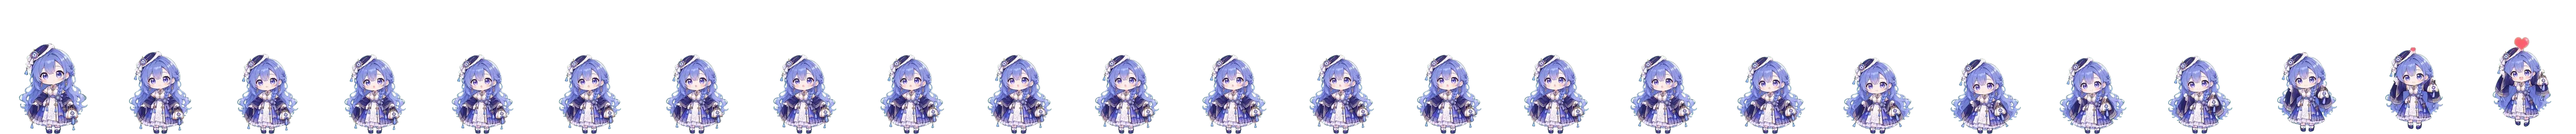
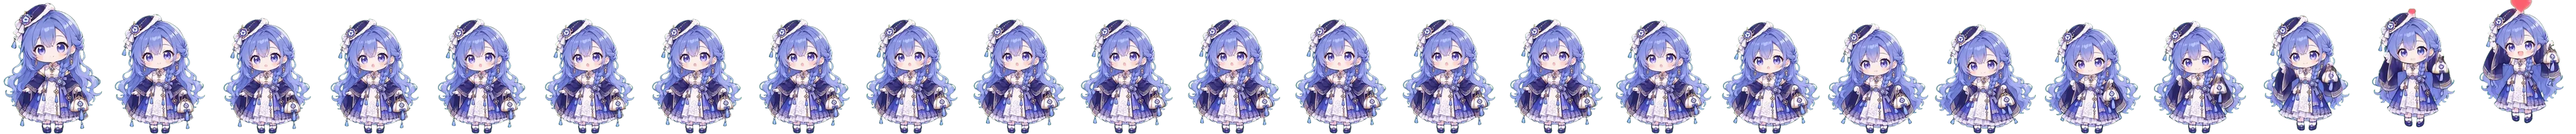
fix(mascot): 放大 Qwen 的完成动作，一次性动作正放再倒放
- 素材脚本按动作读缩放系数，happy 放大到与 idle 同高，超出的顶部裁掉
- 一次性动作也走正放+倒放，播完回到起始姿势
- 取消点击回应的 50ms 提速，统一按 83ms

diff --git a/packages/client/src/features/mascot/mascot-player.ts b/packages/client/src/features/mascot/mascot-player.ts
@@ -129,11 +129,13 @@ export function createMascotPlayer(ctx: HostContext, ui: FeatureUi<typeof manife
   /** What the stage's decisions read off the page: an idle extra starts only in motion, on a visible page. */
   const surroundings = () => ({ extras: character.extras, extrasAllowed: !motionReduced() && !document.hidden, random: Math.random })
 
-  /** How long one round of an animation lasts: its own per-frame durations, or its frame count at the sheet's pace. */
+  /** How long one round of an animation lasts: its own per-frame durations, or the frames it plays at the sheet's pace. */
   const playMs = (key: string) => {
     const sheet = SHEETS[key]
     const frameMs = sheet.frameMs ?? FRAME_MS
-    return sheet.durs === undefined ? sheet.frames * frameMs : sheet.durs.reduce((sum, ms) => sum + ms, 0)
+    if (sheet.durs !== undefined) return sheet.durs.reduce((sum, ms) => sum + ms, 0)
+    const sequence = sequenceOf(sheet)
+    return (sequence === null ? sheet.frames : sequence.length) * frameMs
   }
 
   /** The character's sheet pipeline. */
@@ -293,14 +295,17 @@ export function createMascotPlayer(ctx: HostContext, ui: FeatureUi<typeof manife
     strip.style.transform = ''
     const keyframes: Keyframe[] = []
     let duration: number
-    const sequence = sequenceOf(sheet, mode)
+    const sequence = sequenceOf(sheet)
     const frameMs = sheet.frameMs ?? FRAME_MS
     if (sequence !== null) {
       duration = sequence.length * frameMs
       for (let at = 0; at < sequence.length; at++) {
         keyframes.push({ offset: at / sequence.length, transform: frameOffset(sheet, sequence[at]), easing: 'steps(1)' })
       }
-      keyframes.push({ offset: 1, transform: frameOffset(sheet, mode === 'loop' ? 0 : sheet.frames - 1) })
+      // A ping-pong round and a loop close on the first frame; a one-way
+      // animation closes on its last, which it then holds.
+      const closing = sequence.length > sheet.frames || mode === 'loop' ? 0 : sheet.frames - 1
+      keyframes.push({ offset: 1, transform: frameOffset(sheet, closing) })
     } else if (sheet.durs !== undefined) {
       const durs = sheet.durs
       duration = durs.reduce((sum, ms) => sum + ms, 0)
@@ -404,15 +409,16 @@ export function createMascotPlayer(ctx: HostContext, ui: FeatureUi<typeof manife
   }
 
   /**
-   * The frame order one round of an animation plays: a ping-pong loop walks
-   * forward and then back through the same frames, so its seam repeats a pose
-   * instead of jumping; a sheet with per-frame durations has no such order.
+   * The frame order one round of an animation plays: a ping-pong character
+   * walks forward and then back through the same frames, so its seam repeats a
+   * pose instead of jumping, and a one-off answer returns to the pose it left.
+   * A sheet with per-frame durations has no such order.
    */
-  function sequenceOf(sheet: MascotSheet, mode: PlayMode): number[] | null {
+  function sequenceOf(sheet: MascotSheet): number[] | null {
     if (sheet.durs !== undefined) return null
     const sequence: number[] = []
     for (let frame = 0; frame < sheet.frames; frame++) sequence.push(frame)
-    if (character.pingpongLoops === true && mode === 'loop' && sheet.frames > 2) {
+    if (character.pingpongLoops === true && sheet.frames > 2) {
       for (let frame = sheet.frames - 2; frame > 0; frame--) sequence.push(frame)
     }
     return sequence
@@ -426,7 +432,7 @@ export function createMascotPlayer(ctx: HostContext, ui: FeatureUi<typeof manife
     const current = stage.current
     if (current === null) return null
     const sheet = SHEETS[current.key]
-    const sequence = sequenceOf(sheet, current.mode)
+    const sequence = sequenceOf(sheet)
     if (sequence === null) return null
     if (still() && stage.animation === null) return { key: current.key, frame: sheet.still }
     const time = stage.animation !== null && typeof stage.animation.currentTime === 'number' ? stage.animation.currentTime : 0

diff --git a/packages/client/src/features/mascot/sheets.ts b/packages/client/src/features/mascot/sheets.ts
@@ -149,7 +149,7 @@ export const WHALE_GIRL_SHEETS: Record<string, { frames: number, box: number[], 
  * `tickle` shares the happy one, so the frames and still match the source.
  */
 export const GEMINI_FRAME_MS = 83
-export const GEMINI_SHEETS: Record<string, { frames: number, box: number[], still: number, columns: number, frameMs?: number }> = {
+export const GEMINI_SHEETS: Record<string, { frames: number, box: number[], still: number, columns: number }> = {
   'idle': { frames: 48, box: [0, 0, 48, 60], still: 0, columns: 48 },
   'idle-look': { frames: 24, box: [0, 0, 48, 60], still: 0, columns: 24 },
   'idle-spout': { frames: 24, box: [0, 0, 48, 60], still: 0, columns: 24 },
@@ -164,9 +164,9 @@ export const GEMINI_SHEETS: Record<string, { frames: number, box: number[], stil
   'compacting': { frames: 24, box: [0, 0, 48, 60], still: 0, columns: 24 },
   'sleeping': { frames: 48, box: [0, 0, 48, 60], still: 0, columns: 48 },
   'waking': { frames: 24, box: [0, 0, 48, 60], still: 0, columns: 24 },
-  'poke-left': { frames: 20, box: [0, 0, 48, 60], still: 0, columns: 20, frameMs: 50 },
-  'poke-right': { frames: 20, box: [0, 0, 48, 60], still: 0, columns: 20, frameMs: 50 },
-  'tickle': { frames: 24, box: [0, 0, 48, 60], still: 0, columns: 24, frameMs: 50 },
+  'poke-left': { frames: 20, box: [0, 0, 48, 60], still: 0, columns: 20 },
+  'poke-right': { frames: 20, box: [0, 0, 48, 60], still: 0, columns: 20 },
+  'tickle': { frames: 24, box: [0, 0, 48, 60], still: 0, columns: 24 },
   'drag': { frames: 24, box: [0, 0, 48, 60], still: 0, columns: 24 },
   'landing': { frames: 6, box: [0, 0, 48, 60], still: 5, columns: 48 },
 }
@@ -178,7 +178,7 @@ export const GEMINI_SHEETS: Record<string, { frames: number, box: number[], stil
  * action, and `poke-left`/`poke-right` share the shy one.
  */
 export const QWEN_FRAME_MS = 83
-export const QWEN_SHEETS: Record<string, { frames: number, box: number[], still: number, columns: number, frameMs?: number }> = {
+export const QWEN_SHEETS: Record<string, { frames: number, box: number[], still: number, columns: number }> = {
   'idle': { frames: 48, box: [0, 0, 48, 60], still: 0, columns: 48 },
   'idle-look': { frames: 24, box: [0, 0, 48, 60], still: 0, columns: 24 },
   'idle-spout': { frames: 24, box: [0, 0, 48, 60], still: 0, columns: 24 },
@@ -193,9 +193,9 @@ export const QWEN_SHEETS: Record<string, { frames: number, box: number[], still:
   'compacting': { frames: 24, box: [0, 0, 48, 60], still: 0, columns: 24 },
   'sleeping': { frames: 48, box: [0, 0, 48, 60], still: 0, columns: 48 },
   'waking': { frames: 24, box: [0, 0, 48, 60], still: 0, columns: 24 },
-  'poke-left': { frames: 20, box: [0, 0, 48, 60], still: 0, columns: 20, frameMs: 50 },
-  'poke-right': { frames: 20, box: [0, 0, 48, 60], still: 0, columns: 20, frameMs: 50 },
-  'tickle': { frames: 20, box: [0, 0, 48, 60], still: 0, columns: 20, frameMs: 50 },
+  'poke-left': { frames: 20, box: [0, 0, 48, 60], still: 0, columns: 20 },
+  'poke-right': { frames: 20, box: [0, 0, 48, 60], still: 0, columns: 20 },
+  'tickle': { frames: 20, box: [0, 0, 48, 60], still: 0, columns: 20 },
   'drag': { frames: 24, box: [0, 0, 48, 60], still: 0, columns: 24 },
   'landing': { frames: 6, box: [0, 0, 48, 60], still: 5, columns: 48 },
 }

diff --git a/scripts/build-mascot-sheets.py b/scripts/build-mascot-sheets.py
@@ -144,7 +144,11 @@ def main():
 
     doc = json.loads(MANIFEST.read_text(encoding='utf-8'))
     entry = {'upstream': doc['upstream'], 'commit': doc['commit']}
-    lock = {'upstream': doc['upstream'], 'commit': doc['commit'], 'pets': {}}
+    # A run over one pet keeps the other pet's recorded hashes: --only must not
+    # drop what it did not rebuild.
+    lock_path = ROOT / 'scripts' / 'mascot-sources.lock.json'
+    kept = json.loads(lock_path.read_text(encoding='utf-8'))['pets'] if lock_path.exists() else {}
+    lock = {'upstream': doc['upstream'], 'commit': doc['commit'], 'pets': dict(kept)}
 
     for pet, config in doc['pets'].items():
         if args.only and pet != args.only:
@@ -187,14 +191,21 @@ def main():
             start = min(candidates, key=lambda at: seam_score(images[key], at, frames, action_boxes[key]))
             box = union_box(images[key], start, frames)
             width, height = box[2] - box[0], box[3] - box[1]
-            scale = min(base, OUT_W / width, OUT_H / height)
+            # The pack draws some actions smaller than the idle one; `scale`
+            # lifts one back to the idle height, and the part that then stands
+            # above the cell is cropped off its top.
+            fit = min(base, OUT_W / width, OUT_H / height)
+            scale = min(fit * action.get('scale', 1), OUT_W / width)
             strip = Image.new('RGBA', (frames * OUT_W, OUT_H), (0, 0, 0, 0))
             for index in range(frames):
                 frame = cell(images[key], start + index).crop(box)
                 w = max(1, min(OUT_W, round(width * scale)))
-                h = max(1, min(OUT_H, round(height * scale)))
+                h = max(1, round(height * scale))
                 frame = frame.resize((w, h), Image.LANCZOS)
-                strip.alpha_composite(frame, (index * OUT_W + (OUT_W - w) // 2, OUT_H - h))
+                # Art taller than the cell keeps the shared ground line and
+                # loses its top: crop what stands above the cell before it goes in.
+                top = max(0, h - OUT_H)
+                strip.alpha_composite(frame.crop((0, top, w, h)), (index * OUT_W + (OUT_W - w) // 2, OUT_H - h + top))
             path = out_dir / f'{key}.webp'
             strip.save(path, 'WEBP', quality=82, method=6)
             derived[key] = {
@@ -234,7 +245,6 @@ def main():
         }
         print(f'  wrote {out_dir.relative_to(ROOT)}/ ({{}})'.format(', '.join(sorted(sheets))))
 
-    lock_path = ROOT / 'scripts' / 'mascot-sources.lock.json'
     lock_path.write_text(json.dumps(lock, ensure_ascii=False, indent=2) + '\n', encoding='utf-8')
     print(f'\nwrote {lock_path.relative_to(ROOT)}')
     print('\nTS tables (paste into packages/client/src/features/mascot/sheets.ts):')
